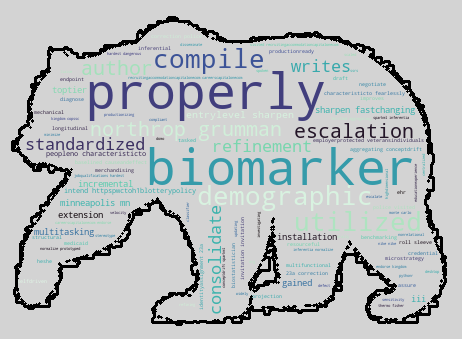
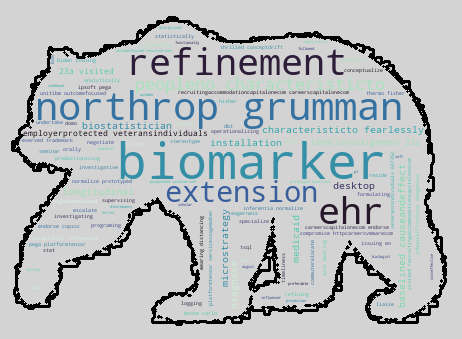
finished parsing monograms down to knowhow

Changed region(s): [[0.0303, 0.059, 0.9394, 0.944]]

diff --git a/nlp_main.py b/nlp_main.py
@@ -69,13 +69,13 @@ def calculate_raw_csv_stats(df_raw):
     None.
 
     '''    
-    print('***** Data Ingest Statistics *****')
+    print('***** Data Ingest Statistics ***** \n')
     print(f'Records imported: {df_raw.shape[0]} \n')
     print(f'Unique job titles: {df_raw.job_title.nunique()} \n')
     print(f'Nulls are present:\n{df_raw.isna().sum()} \n')
     print(f'Records missing job_title field: {(df_raw.job_title.isna().sum() / df_raw.shape[0] * 100).round(3)}%')
     print(f'Records missing job_Description field: {(df_raw.job_Description.isna().sum() / df_raw.shape[0] * 100).round(3)}% \n')
-    print('***** Data Cleaning Statistics *****\n')
+    print('***** Data Cleaning Statistics ***** \n')
     print(f"Count of duplicates based on company, location, title and description: {df_raw.duplicated(subset=['job_title', 'company', 'location', 'job_Description']).sum()}")
     print(f"Duplication rate: {((df_raw.duplicated(subset=['job_title', 'company', 'location', 'job_Description']).sum()) / df_raw.shape[0] * 100).round(3) }% \n")
 
@@ -634,7 +634,48 @@ def clean_for_nlp(series_of_interest):
                                             'allowance', 'ally', 'sustainment', 'parking', 'servicing', 'mac', 'thank',
                                             'mantech', 'suggestion', 'compliant', 'instrumental', 'novartis', 'controlled',
                                             'proofofconcept', 'enterprisewide', 'persona', 'humility', 'columbia', '80', 'ssa',
-                                            'securely', 'contractual', 'multiyear']))) + ds_skills_combined
+                                            'securely', 'contractual', 'multiyear', 'solved', 'embraced', 'structural', 'middle',
+                                            'prominent', 'safely', '22', 'comprehend', 'testdriven', 'telling', 'consecutive',
+                                            'verifying', 'docusign', 'beverage', 'resourceful', 'camera', 'length', 'diagnosis',
+                                            'productionready', 'roll', 'referred', 'treated', 'responding', 'cooperation',
+                                            'escalation', 'completely', '5g', 'chronic', 'robustness', 'doctor', 'loved',
+                                            'extending', 'gaining', 'oneonone', 'soon', '2014', 'attempt', 'familial', 'navigating',
+                                            'commit', 'worth', 'filing', 'modular', 'tn', 'directive', 'defect', 'tested',
+                                            'frequency', 'portland', 'experiencing', 'ago', 'east', 'zscaler', 'meal', 'operator',
+                                            'mechanical', 'wait', 'recurring', 'endpoint', 'realization', 'awarded', 'unlocking',
+                                            'possibly', 'author',  'produced', 'statesnew', 'stop', 'plenty', 'upstart',  
+                                            'applicability', 'land', 'ocean', 'overcome', 'breastfeeding', 'vulnerability',
+                                            'agreed', 'homeland', 'personality', 'theme', 'knowing', 'summarization', 'redefine',
+                                            'issued', 'automatically', 'assure', 'backup', 'ingenuity',  'aircraft', 'surrounding',
+                                            'onboard', 'widely', 'aggressive', 'attending', 'maximizing', 'founder', 'immunology',
+                                            'walking', 'ec', 'bureau', 'kingdom', 'finally', 'draft', 'trip', 'eliminate',
+                                            'admired', 'biometrics', 'flagship', 'qc', 'fundamentally', 'spot', 'advocacy',
+                                            'downstream', 'stretch', 'tower', 'scaled', 'waste', 'analog', 'offshore', 'enter',
+                                            '70', 'connectivity', 'exploit', 'validates', 'tagging', 'kpmgs', 'superb', 'compare',
+                                            'servicenow', 'teacher', 'benchmarking', 'abbvie', 'humanity', 'interos', 'updating',
+                                            'crew', 'doer', 'sharpen', 'janssen', 'exposed', 'dei', 'transport', '120', 'formed',
+                                            'peace', 'minneapolis', 'delegate', 'reinvent', 'monetization', 'productionize', 'rwe',
+                                            'fixed', 'joined', 'round', 'recognizing', 'panel', 'reston', 'consolidate', 'unlawful',
+                                            'mountain', 'augment', 'indirect', 'notforprofit', 'night', '21', 'cna', 'incremental',
+                                            'indiana', '160', 'australia', 'siri', 'orientationgender', 'payroll', 'investigating',
+                                            'medication', 'constituent', 'gm', 'conception', 'formulating', 'cool', '34', 'dataiku',
+                                            'examination', 'undertake', 'urban', 'toolset', 'ut', 'microstrategy', 'evidencebased',
+                                            'aspire', 'remaining', 'reside', 'o', 'specialize', 'vesting', 'ehr', 'suitability',
+                                            'skillsets', 'thrilled', 'cardiovascular', 'floor', 'promising', 'operationalization',
+                                            'overtime', 'highvolume', 'carbon', 'renewable', 'bigbearai', 'encounter', '20000',
+                                            'unexpected', 'old', 'disseminate', 'santa', 'pressing', 'facet', 'datacentric',
+                                            'transit', 'talend', 'productionlevel', 'distancing', 'planned', 'grows', 'attracting',
+                                            'stereotype', 'telemetry', '800', 'biologist', 'nuclear', 'intensive',
+                                            'veteransindividuals', 'inventing', 'technologydriven', 'articulating', 'pega', 'cto',
+                                            'refinement', '49', 'multicultural', 'responsibly', 'la', 'capturing', 'joy',
+                                            'diagnose',  'fastchanging', 'wi', 'weather', 'percentage', 'archive', 'hospitality',
+                                            'substitute', 'childcare', 'violence', 'discrete', 'tampa', 'constructing', 'coffee',
+                                            'grounded', 'wholesale', 'disrupting', 'dialog', 'subcategory', 'thoroughly', 'dev', 
+                                            'wall', 'io', 'fort', '300', 'assay', 'facetoface', '2008', 'uf0b7', 'processed',
+                                            'appeal', 'observability', 'pinterest', 'penfed', 'physically', 'kitchen', 'academy',
+                                            'gateway', 'propel', '170', 'industryspecific', 'takeda', 'comcast', 'sheet',
+                                            'compromise', 'describing', 'authoring', 'lucid', 'desktop', 'shield', 'knowhow',
+                                            'naval', 'substance', 'sleeve', 'acceleration', 'specializes', 'georgia', 'pivotal', 'impala', 'ccpa', 'usd', 'safeguard', '510', 'rds', 'salt', 'elegant', '2017', 'stats', 'normalize', 'grammarly', 'educating', 'installation', 'ct', '17', 'strengthening', 'structuring', 'sw', 'everyones', 'crossdisciplinary', 'adaptability', 'permissible', 'moderna', 'duke', 'nontraditional', 'straightforward', 'functionally', 'visionary', 'expensive', 'learned', 'iconic', 'operationalizing', 'protective', 'introduce', 'expanded', '15000', 'faced', 'professor', 'filter', 'kmeans', 'ge', 'contracting', 'conceptualize', 'comprehension', 't', 'concurrently', 'rnn', 'planner', 'columbus', 'marketleading', 'october', 'defend', 'youtube', 'molecule', 'margin', 'kansa', '160000', 'stanley', 'mother', 'bug', 'medicaid']))) + ds_skills_combined
     
     stop_words = nltk.corpus.stopwords.words('english') + additional_stopwords + ds_cred_terms + ds_prof_skill_terms + ds_soft_skill_terms + ds_tech_skill_terms
     
@@ -942,6 +983,7 @@ ds_cred_terms = ['ability',
                  'biotech',
                  'biotechnology',
                  'bsba',
+                 'bsms',
                  'business',
                  'capability',
                  'certificate',
@@ -970,6 +1012,7 @@ ds_cred_terms = ['ability',
                  'econometrics',
                  'econometric',
                  'education',
+                 'educationexperience',
                  'electrical',
                  'engineer',
                  'engineering',
@@ -997,6 +1040,8 @@ ds_cred_terms = ['ability',
                  'mba',
                  'military', 
                  'molecular',
+                 'msc',
+                 'msphd',
                  'neuroscience',
                  'operation', 
                  'peerreviewed', 
@@ -1107,12 +1152,14 @@ ds_tech_skill_terms = ['ab',
                      'behavioral',
                      'bi',
                      'big',
+                     'bigdata',
                      'bigquery',
                      'blockchain',
                      'boosting',
                      'breakthrough',
                      'build', 
                      'c',
+                     'calculus',
                      'cassandra',
                      'causal', 
                      'center',
@@ -1126,6 +1173,7 @@ ds_tech_skill_terms = ['ab',
                      'cleansing',
                      'cloud', 
                      'cloudbased',
+                     'cloudnative', 
                      'cluster',
                      'clustering',
                      'code', 
@@ -1153,11 +1201,14 @@ ds_tech_skill_terms = ['ab',
                      'correlation',
                      'crm',
                      'cs',
+                     'curate',
                      'curation',
                      'cutting', 
                      'cuttingedge',
                      'cyber',
                      'cybersecurity',
+                     'd3js',
+                     'dash',
                      'dashboard',
                      'dashboarding',
                      'dask',
@@ -1195,6 +1246,8 @@ ds_tech_skill_terms = ['ab',
                      'distributed', 
                      'docker',
                      'django',
+                     'draper',
+                     'dynamodb',
                      'early', 
                      'ec2',
                      'ecosystem',
@@ -1260,6 +1313,7 @@ ds_tech_skill_terms = ['ab',
                      'graph',
                      'graphic',
                      'groundbreaking',
+                     'gtm',
                      'h2o',
                      'hadoop',
                      'hardware',
@@ -1276,6 +1330,7 @@ ds_tech_skill_terms = ['ab',
                      'implement',
                      'implementation',
                      'inference',
+                     'inferential',
                      'informatica',
                      'information',
                      'infrastructure',
@@ -1342,6 +1397,7 @@ ds_tech_skill_terms = ['ab',
                      'measurable',
                      'measurement',
                      'metadata',
+                     'medidata',
                      'method',
                      'methodology',
                      'methodological',
@@ -1371,9 +1427,12 @@ ds_tech_skill_terms = ['ab',
                      'next',
                      'nextgeneration',
                      'neural', 
+                     'nifi',
                      'nlp',
                      'nltk',
+                     'nlu',
                      'nodejs', 
+                     'nonlinear',
                      'normalization',
                      'nosql',
                      'notebook',
@@ -1385,10 +1444,12 @@ ds_tech_skill_terms = ['ab',
                      'office',
                      'ontology',
                      'open', 
+                     'opencv',
                      'opensource',
                      'optimal',
                      'optimize',
                      'optimized',
+                     'optimizes',
                      'optimization',
                      'optimizing',
                      'oracle',
@@ -1404,6 +1465,8 @@ ds_tech_skill_terms = ['ab',
                      'pipeline',
                      'pivot', 
                      'platform',
+                     'plotly',
+                     'plsql',
                      'postgres', 
                      'postgresql', 
                      'power',
@@ -1437,6 +1500,7 @@ ds_tech_skill_terms = ['ab',
                      'query',
                      'relational', 
                      'r',
+                     'radar',
                      'rd',
                      'random', 
                      'raw',
@@ -1460,6 +1524,7 @@ ds_tech_skill_terms = ['ab',
                      'rest', 
                      'retraining',
                      'review',
+                     'rf',
                      'rigor',
                      'rigorous', 
                      'robotics',
@@ -1490,9 +1555,11 @@ ds_tech_skill_terms = ['ab',
                      'segment',
                      'segmentation',
                      'semantic',
-                     'semistructured'
+                     'semistructured',
                      'sensing',
                      'sensor',
+                     'sensing', 
+                     'sensitivity',
                      'sentiment',
                      'series',
                      'server',
@@ -1510,6 +1577,7 @@ ds_tech_skill_terms = ['ab',
                      'sp',
                      'spacy',
                      'spark',
+                     'sparkml',
                      'spatial',
                      'speech', 
                      'splunk', 
@@ -1526,6 +1594,7 @@ ds_tech_skill_terms = ['ab',
                      'statistician',
                      'stateoftheart',
                      'stata',
+                     'stochastic', 
                      'store',
                      'structured',
                      'supervised', 
@@ -1584,7 +1653,8 @@ ds_tech_skill_terms = ['ab',
                      'watson',
                      'web',
                      'wrangling',
-                     'xgboost']    
+                     'xgboost',
+                     'xml']    
 
 ds_soft_skill_terms = ['ad', 
                        'adhoc',
@@ -1637,6 +1707,7 @@ ds_soft_skill_terms = ['ad',
                      'contributor',
                      'coworkers',
                      'creative',
+                     'credibility',
                      'critical', 
                      'crossfunctional',
                      'crossfunctionally',
@@ -1668,6 +1739,7 @@ ds_soft_skill_terms = ['ad',
                      'experienced',
                      'explain', 
                      'fast', 
+                     'fastmoving',
                      'fastpaced',
                      'faster',
                      'finding',
@@ -1681,6 +1753,7 @@ ds_soft_skill_terms = ['ad',
                      'hard',
                      'hardworking',
                      'high', 
+                     'highenergy',
                      'highly', 
                      'hoc', 
                      'holistic',
@@ -1721,6 +1794,7 @@ ds_soft_skill_terms = ['ad',
                      'minimal', 
                      'motivated',
                      'multidisciplinary',
+                     'multifunctional',
                      'multitasking',
                      'nontechnical', 
                      'novel',
@@ -1740,6 +1814,7 @@ ds_soft_skill_terms = ['ad',
                      'practice',
                      'pragmatic',
                      'precision',
+                     'precise',
                      'present', 
                      'presentation',
                      'priority',
@@ -1768,6 +1843,7 @@ ds_soft_skill_terms = ['ad',
                      'root', 
                      'savvy',
                      'selfdirected',
+                     'selfdriven',
                      'selfstarter',
                      'selfmotivated',
                      'simultaneously',
@@ -1795,6 +1871,7 @@ ds_soft_skill_terms = ['ad',
                      'user', 
                      'value',
                      'verbal',
+                     'verbalwritten',
                      'verbally',
                      'versatile',
                      'willingness', 
@@ -1910,6 +1987,7 @@ ds_prof_skill_terms = ['ability',
                        'mentorship',
                        'mission',
                        'multidisciplinary',
+                       'mvp',
                        'need',
                        'objective',
                        'operating',
@@ -1956,6 +2034,7 @@ ds_prof_skill_terms = ['ability',
                        'six', 
                        'skill',
                        'sme',
+                       'smes',
                        'solution',
                        'solve',
                        'solving',
